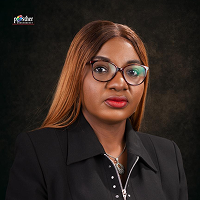
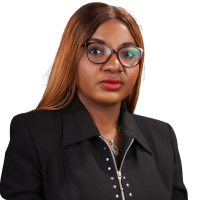
Copywrite and UI fixes

diff --git a/src/components/HomePage/Home.tsx b/src/components/HomePage/Home.tsx
@@ -23,7 +23,7 @@ export default function Home() {
                         <div className="grid grid-cols-1 md:grid-cols-2 gap-14 py-10">
                             <div className="relative flex justify-center items-center">
                                 <img src="/assets/images/Frame 20.svg" alt="" className="absolute top-20 right-10 w-1/3 h-auto" />
-                                <img src="assets/images/african-mother-little-girl-close-up 1 (1).png" alt="" className="relative rounded-lg h-[410px] w-96" />
+                                <img src="assets/images/are-you-covered.png" alt="" className="relative rounded-lg h-[410px] w-96" />
                                 <img src="/assets/images/Frame 20.svg" alt="" className="absolute top-20 right-2 w-1/3 h-auto" />
                             </div>
                             <div>
@@ -31,7 +31,7 @@ export default function Home() {
                                     <h1 className="text-green-700 font-semibold">ABOUT US</h1>
                                     <p className="text-gray-600">
                                         NPF Insurance Company Limited is a general business insurance
-                                        company, licensed by the National Insurance Commission (NAICOM). As a privately-owned company, we are dedicated to contributing to Nigeria's GDP by providing comprehensive insurance and risk management solutions. Read more
+                                        company, licensed by the National Insurance Commission (NAICOM). As a privately-owned company, we are dedicated to contributing to Nigeria's GDP by providing comprehensive insurance and risk management solutions.
                                     </p>
                                 </div>
                                 <div className="flex flex-col md:flex-row gap-y-8 md:gap-x-16">
@@ -104,16 +104,16 @@ export default function Home() {
                         </div>
 
                         <div className="px-8 sm:px-16 py-12">
-                            <div className="flex flex-col sm:flex-row sm:space-x-10 relative space-y-10 sm:space-y-0">
+                            <div className="flex flex-col sm:flex-row sm:space-x-10 relative space-y-10 sm:space-y-0 justify-center">
                                 <div className="text-center bg-white rounded-md p-5 w-full sm:w-72 relative">
                                     <div className="text-center flex justify-center">
                                         <img src="/assets/images/tape-measure.png" alt="" />
                                     </div>
                                     <div className="text-gray-600">
-                                        <h1 className="text-black-500 text-xl font-bold py-2">Tailored Situations</h1>
-                                        <p>Our experts craft a</p>
-                                        <p>personalized insurance plan</p>
-                                        <p>that fits your lifestyle.</p>
+                                        <h1 className="text-black-500 text-xl font-bold py-2">Visit our website</h1>
+                                        <p>To choose the insurance</p>
+                                        <p>policy type that best fits you</p>
+                                        <p> or your business.</p>
                                     </div>
                                     <div className="bg-green-800 rounded-full w-8 h-8 px-2 py-2 text-center flex items-center justify-center text-white font-bold absolute bottom-[-20px] left-1/2 transform -translate-x-1/2 sm:left-[120px]">1</div>
                                     <div className="absolute bottom-[-100px] left-[140px] hidden lg:block">
@@ -127,10 +127,10 @@ export default function Home() {
                                         <img src="/assets/images/checkmark-badge-03.png" alt="" />
                                     </div>
                                     <div className="text-gray-600">
-                                        <h1 className="text-black-500 text-xl font-bold py-2">Easy Enrollment</h1>
-                                        <p>We guide you through the</p>
-                                        <p>simple,hassle-free process</p>
-                                        <p>of securing your coverage.</p>
+                                        <h1 className="text-black-500 text-xl font-bold py-2">Form Completion</h1>
+                                        <p>Fill out the required </p>
+                                        <p>information on the form,</p>
+                                        <p>and submit. </p>
                                     </div>
                                     <div className="bg-green-800 rounded-full w-8 h-8 px-2 py-2 text-center flex items-center justify-center text-white font-bold absolute top-[-10px] left-1/2 transform -translate-x-1/2 sm:top-[-20px] sm:left-[135px]">2</div>
                                     <div className="absolute top-[-100px] left-[120px] hidden lg:block">
@@ -143,10 +143,10 @@ export default function Home() {
                                         <img src="/assets/images/mentoring.png" alt="" />
                                     </div>
                                     <div className="text-gray-600">
-                                        <h1 className="text-black-500 text-xl font-bold py-2">Ongoing support</h1>
-                                        <p>Enjoy peace of mind with our</p>
-                                        <p>24/7 support and assistance</p>
-                                        <p>whenever you need it</p>
+                                        <h1 className="text-black-500 text-xl font-bold py-2">Make Premium Payment </h1>
+                                        <p>Complete your Premium</p>
+                                        <p>Payment effortlessly using </p>
+                                        <p>our user-friendly payment platform.</p>
                                     </div>
                                     <div className="bg-green-800 rounded-full w-8 h-8 px-2 py-2 text-center flex items-center justify-center text-white font-bold absolute bottom-[-20px] left-1/2 transform -translate-x-1/2 sm:left-[120px]">3</div>
                                     <div className="absolute bottom-[-100px] left-[140px] hidden lg:block">
@@ -159,10 +159,9 @@ export default function Home() {
                                         <img src="/assets/images/policy.png" alt="" />
                                     </div>
                                     <div className="text-gray-600">
-                                        <h1 className="text-black-500 text-xl font-bold py-2">Claims & Adjustments</h1>
-                                        <p>Quick efficeient claims</p>
-                                        <p>handling and flexible policy</p>
-                                        <p>Adjustments to ensure.</p>
+                                        <h1 className="text-black-500 text-xl font-bold py-2">Get Your Claimed</h1>
+                                        <p>Access Your Quick and</p>
+                                        <p>Streamlined Claims</p>
                                     </div>
                                     <div className="bg-green-800 rounded-full w-8 h-8 px-2 py-2 text-center flex items-center justify-center text-white font-bold absolute top-[-10px] left-1/2 transform -translate-x-1/2 sm:top-[-20px] sm:left-[135px]">4</div>
                                 </div>

diff --git a/src/components/Ui/cardDetails.tsx b/src/components/Ui/cardDetails.tsx
@@ -3,76 +3,68 @@ export const getCardDetails = () => {
       {
         imageSrc: "/assets/images/car-02.svg",
         title: "Motor Insurance",
-        descriptions: ["Motor insurance", "covers vehicle damage", "third-party claims, fire,", "and theft."],
+        //descriptions: ["Motor insurance", "covers vehicle damage", "third-party claims, fire,", "and theft."],
+        descriptions: ["Provides covers for loss of or", "damage to the insured", "vehicle, or damage to Third ", "Party property including", "bodily injury/death caused by", "accident."],
         //link: "/motor-insurance-quote" link is hashed for now until the page is ready
         link: "#"
       },
       {
         imageSrc: "/assets/images/fire-02.png",
         title: "Fire and Special Perils",
-        descriptions: ["The Insurance Act 2003", "mandates fire and perils", "insurance for public", "buildings."],
+        //descriptions: ["The Insurance Act 2003", "mandates fire and perils", "insurance for public", "buildings."],
+        descriptions: ["This covers the devastating", "effect fire can have on assets", "such as building and contents", "n the premises. It cover fires,", "explosions, storms etc…"],
         link: ""
       },
       {
         imageSrc: "/assets/images/traffic-incident.svg",
-        title: "General Accident",
-        descriptions: ["General Accident", "Insurance covers", "unexpected injuries and", "damages."],
+        title: "OCCUPIERS LIABILITY",
+        //descriptions: ["General Accident", "Insurance covers", "unexpected injuries and", "damages."],,
+        descriptions: ["Provides cover to all building", "owners or occupiers for the", "benefit of third parties,", "especially in public buildings…"],
         link: ""
       },
       {
         imageSrc: "/assets/images/gun.png",
         title: "Burglary Theft",
-        descriptions: ["Burgulary and Theft", "Insurance covers loss or", "damage from break-ins", "and theft."],
+        descriptions: ["Covers loss of or damage to", "the properties insured as a", "result of forcible entry or exit,", "attempted theft…."],
+        link: ""
+      },
+      {
+        imageSrc: "/assets/images/safe.png",
+        title: "Our Claims Managment",
+        descriptions: ["Claims are processed daily,", "with cheques issued within 48", "hours of claims….."],
         link: ""
       },
       {
         imageSrc: "/assets/images/shopping-basket-secure-03.png",
-        title: "Occupiers Liabilty",
-        descriptions: ["Occupiers Liability", "Insurance covers third -", "party damages", "as required by law."],
+        title: "Group Personal Accident Insurance",
+        descriptions: ["This covers all employees", "against death, permanent", "disability and partial disability", "during and after working hours."],
         link: ""
       },
       {
         imageSrc: "/assets/images/plant-02.png",
         title: "Plant All Risks Insurance",
-        descriptions: ["This insurance", "plant and machinery", "against all risks,excluding", "certain damages."],
+        descriptions: ["This insures plants and", "machinery against all risk on", "site, excluding certain damages…"],
         link: ""
       },
       {
         imageSrc: "/assets/images/user-shield-01.png",
         title: "Public Liability Insurance",
-        descriptions: ["Public Liability Insurance", "covers third-party harm", "or damage due to", "negligence"],
-        link: ""
-      },
-      {
-        imageSrc: "/assets/images/safe.png",
-        title: "Schedule of Property Covered",
-        descriptions: ["Provide values for", "property and items to set", "the coverage rate"],
+        descriptions: ["Covers legal liability incurred", "from third parties for death,", "injury and property damage", "arising out of negligence…"],
         link: ""
       },
       {
         imageSrc: "/assets/images/cash-02.png",
         title: "Money Insurance",
-        descriptions: ["Money Insurance", "covers cash loss in transit", "sales and personal custody"],
+        descriptions: ["This is an all risks cover for", "loss or damage subject to", "standard exceptions… eg.", "Cash in Transit, Cash in Safe etc…."],
         link: ""
       },
       {
         imageSrc: "/assets/images/tractor.png",
-        title: "Machinary breakdown Insurance",
-        descriptions: ["Machinery breakdown", "Insurance covers", "damage from defects or", "external causes."],
+        title: "Machinery Breakdown Insurance",
+        descriptions: ["This covers all machinery", "against damage caused by", "breakdown from sources", "within the machinery…"],
         link: ""
       },
-      {
-        imageSrc: "/assets/images/traffic-incident.svg",
-        title: "Group personal Accident insurance",
-        descriptions: ["Employee Accident", "Insurance covers death", "and disablity benefits"],
-        link: ""
-      },
-      {
-        imageSrc: "/assets/images/agreement-02.png",
-        title: "Our Claims management",
-        descriptions: ["Claims are processed", "daily, with cheques issued", "within 48 hours of signing"],
-        link: ""
-      }
+
     ];
   };
   

diff --git a/src/components/Ui/carousel.tsx b/src/components/Ui/carousel.tsx
@@ -15,10 +15,10 @@ export default function CarouselComponent() {
                     <div className="container mx-auto h-full flex items-center relative z-10 px-8 sm:px-16">
                         <div className="text-left sm:text-center bg-white bg-opacity-85 p-5 md:px-8 rounded-2xl">
                             <div className="text-3xl sm:text-5xl font-bold">
-                                <h1 >Your <span className="text-green-800">Safety Net</span> for</h1>
-                                <h1>Life's Uncertainties</h1>
+                                <h1 className='text-2xl md:text-3xl lg:text-5xl xl:text-5xl'  >Your <span className="text-green-800">Safety Net</span> for</h1>
+                                <h1 className='text-2xl md:text-3xl lg:text-5xl xl:text-5xl' >Life's Uncertainties</h1>
                             </div>
-                            <div className="my-4 text-lg sm:text-xl py-4">
+                            <div className="my-1 text-lg sm:text-xl py-3">
                                 <p className="text-gray-900">
                                     Protecting you and your loved ones with reliable
                                 </p>
@@ -26,7 +26,7 @@ export default function CarouselComponent() {
                                     coverage when you need it most.
                                 </p>
                             </div>
-                            <div className="flex flex-col sm:flex-row space-y-4 sm:space-y-0 sm:space-x-5 py-4">
+                            <div className="flex flex-col sm:flex-row space-y-4 sm:space-y-0 sm:space-x-5 py-2 justify-center">
                                 <button className="bg-green-800 rounded-full py-2 px-4 text-white hover:text-white hover:bg-green-800 transition duration-300">Get started</button>
                                 <button className="flex items-center justify-center bg-transparent border border-green-800 rounded-full py-2 px-4 text-green-800 hover:bg-green-800 hover:text-white transition duration-300">
                                     Learn more

diff --git a/src/components/Layout/footer/footer.tsx b/src/components/Layout/footer/footer.tsx
@@ -2,7 +2,7 @@ import { BiLogoFacebook} from "react-icons/bi";
 import { Link } from "react-router-dom";
 import { SiInstagram } from "react-icons/si";
 import { TbBrandX} from "react-icons/tb";
-import Logo from "../../../assets/Logo.png"
+//import Logo from "../../../assets/Logo.png"
 
 export default function Footer() {
   return (
@@ -13,13 +13,13 @@ export default function Footer() {
           <div className="grid grid-cols-1 md:grid-cols-3 gap-10">
             
               <div>
-                <div className="text-2xl font-bold md:w-[300px]">
+                {/* <div className="text-2xl font-bold md:w-[300px]">
                   <img src={Logo} alt="NPF Logo"  />
-                </div>
+                </div> */}
                 
 
-                  <h1 className=" text-4xl md:text-5xl font-bold pt-[-10px] text-white mt-6">Subscribe for our </h1>
-                  <h1 className="text-4xl md:text-5xl font-bold text-white">newsletter</h1>
+                  <h1 className=" text-2xl md:text-4xl font-bold pt-[-10px] text-white mt-6">Subscribe for our </h1>
+                  <h1 className="text-2xl md:text-4xl font-bold text-white">newsletter</h1>
                   <div className="mt-5 flex items-center max-w-md">
                     <input
                       type="email"

diff --git a/src/components/aboutPage/About.tsx b/src/components/aboutPage/About.tsx
@@ -1,9 +1,9 @@
-import heroImg from "../../assets/about/hero.png"
+import heroImg from "../../assets/about/hero2.png"
 //import missionImg from "../../assets/about/mission.png"
 import visionImg from "../../assets/about/vision2.png"
 import ahemenImg from "../../assets/about/ahemen.png";
-import temitayoImg from "../../assets/about/temitayo2.png";
-import blankImg from "../../assets/about/blank.png";
+import temitayoImg from "../../assets/about/temitayo.png";
+import juliusImg from "../../assets/about/julius.png"
 import ekechukwuImg from "../../assets/about/ekechukwu.png";
 import objectiveImg from "../../assets/about/objective.png";
 import regulatorImg from "../../assets/about/regulator.svg";
@@ -244,14 +244,13 @@ const teamMembers = [
     {
         name: "Julius Adedeji Esq",
         position: "Company Secretary",
-        img: blankImg,
-        border:false
+        img: juliusImg
     },
     {
         name: "Ahemen Rose Wende  MBA,PhRI",
         position: "Executive Director Admin &Corporate Services",
         img: ahemenImg,
-        border:false
+        border:true,
     }
 ]
 

diff --git a/src/components/Layout/header/Tools/NavLink.tsx b/src/components/Layout/header/Tools/NavLink.tsx
@@ -39,7 +39,7 @@ export default function NavLinks() {
             <NavLink
               to={link.url}
               className={({ isActive }) =>
-                `px-4 py-2 font-bold text-black ${
+                `px-4 py-2 font-bold text-black text-sm lg:text-base ${
                   isActive &&  link.url !== "#"  ? "text-green-500" : "" //Disable for hashed links
                 }`
               }
@@ -49,7 +49,7 @@ export default function NavLinks() {
 
             {/* Dropdown for "About" */}
             {link.submenu && dropdownOpen && (
-              <div className="absolute left-0 mt-0 w-48 bg-white shadow-md rounded-md">
+              <div className="absolute left-0 mt-0.5 w-48 bg-white shadow-md rounded-md">
                 {link.submenu.map((sub, subIndex) => (
                   <NavLink
                     key={subIndex}

diff --git a/src/components/Layout/header/header.tsx b/src/components/Layout/header/header.tsx
@@ -17,12 +17,12 @@ export default function Header() {
           {/* <img src={"/assets/logo/logo.svg"} alt="logo" className='' /> */}
           <img src={Logo} alt="logo" /* className='h-[40px] w-[200px] md:w-[300px] md:h-[50px]' */ />
         </div>
-        <div className="hidden md:flex justify-center flex-1 px-10">
+        <div className="hidden md:flex justify-center flex-1 px-3 lg:px-10">
           <NavLinks />
         </div>
         <div className="hidden md:flex">
           <Link to={'#'} /* to={'/motor-insurance-quote'} */>
-            <button className="bg-green-900 text-white px-4 py-2 rounded-full">
+            <button className="bg-green-900 text-white px-2 py-1 xl:px-4 xl:py-2 rounded-lg md:rounded-full text-sm lg:text-base w-fit">
               Get a Quote
             </button>
           </Link>

diff --git a/src/components/contactPage/Contact.tsx b/src/components/contactPage/Contact.tsx
@@ -47,7 +47,7 @@ export default function Contact() {
                         <img src={addressImg} alt="community img" className="" />
                         <div className="font-medium">
                             <span className="text-sm lg:text-base text-[#383C39] font-bold mb-2" >Address</span>
-                            <p className="text-sm lg:text-base " >
+                            <p className="text-sm lg:text-lg " >
                                 Insurance Building, Behind Louis Edet House
                                 Force Headquaters,Shehu Shagari Way, Abuja
                             </p>                            
